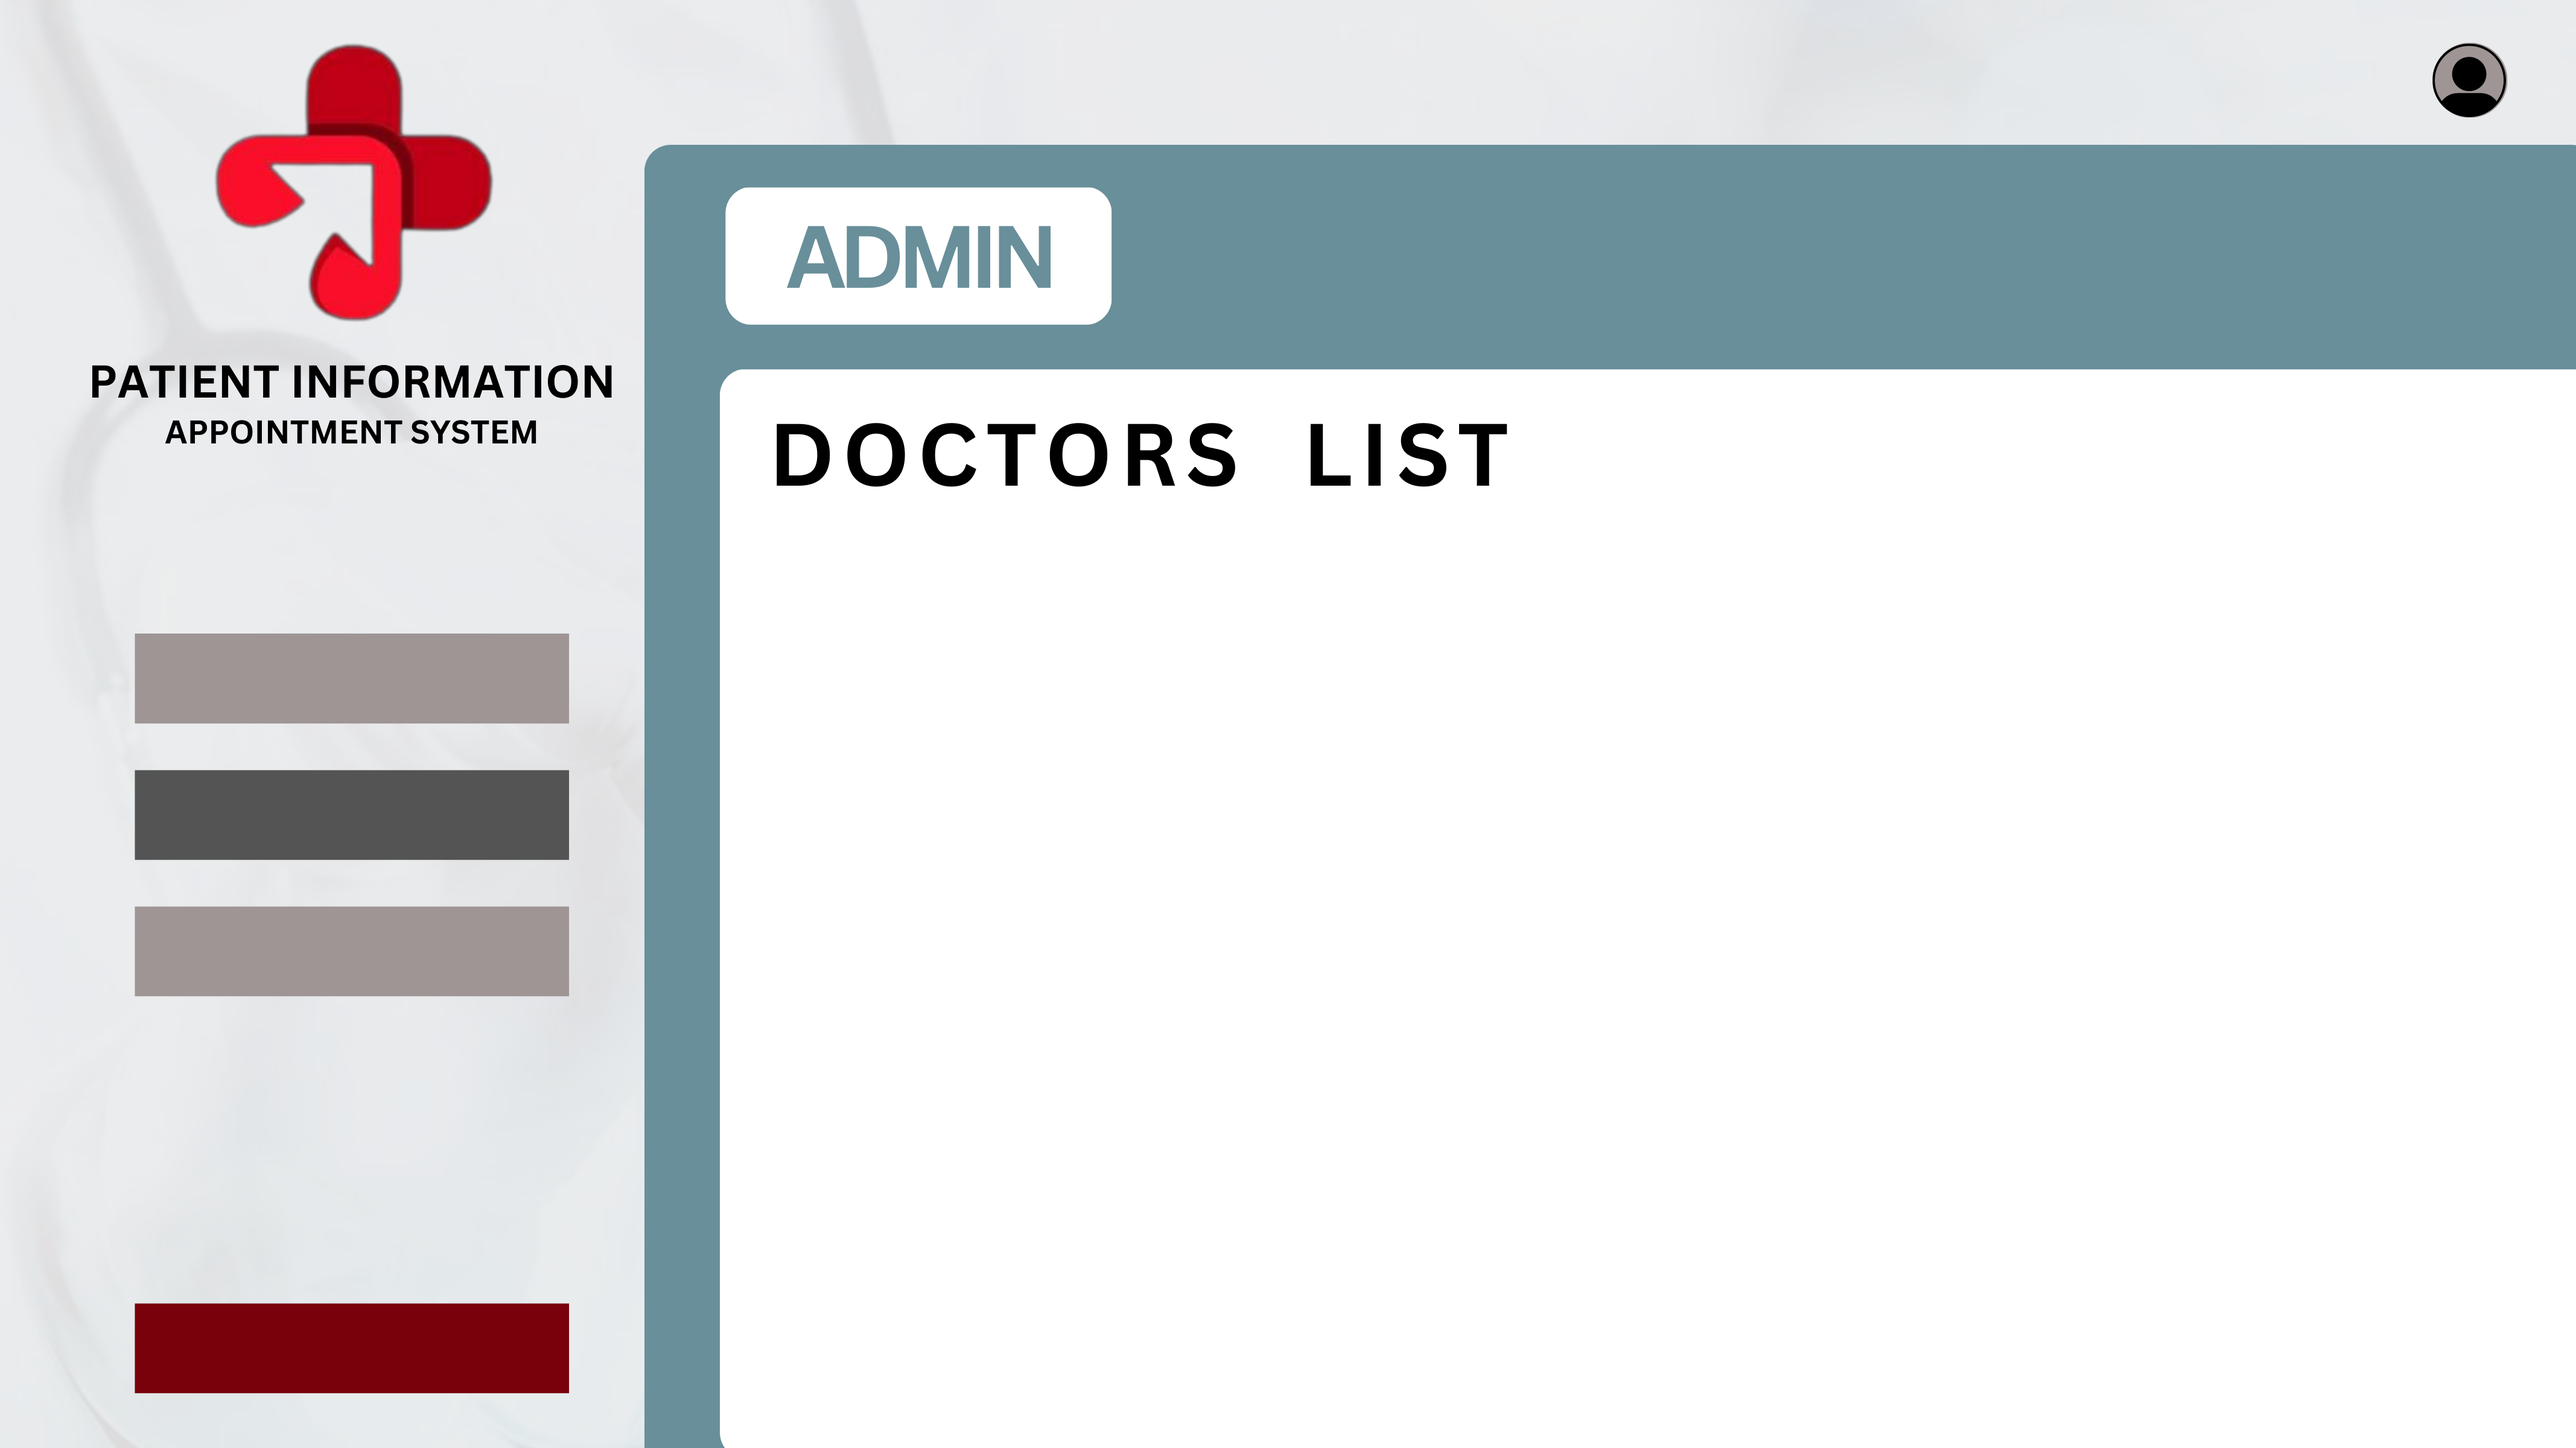
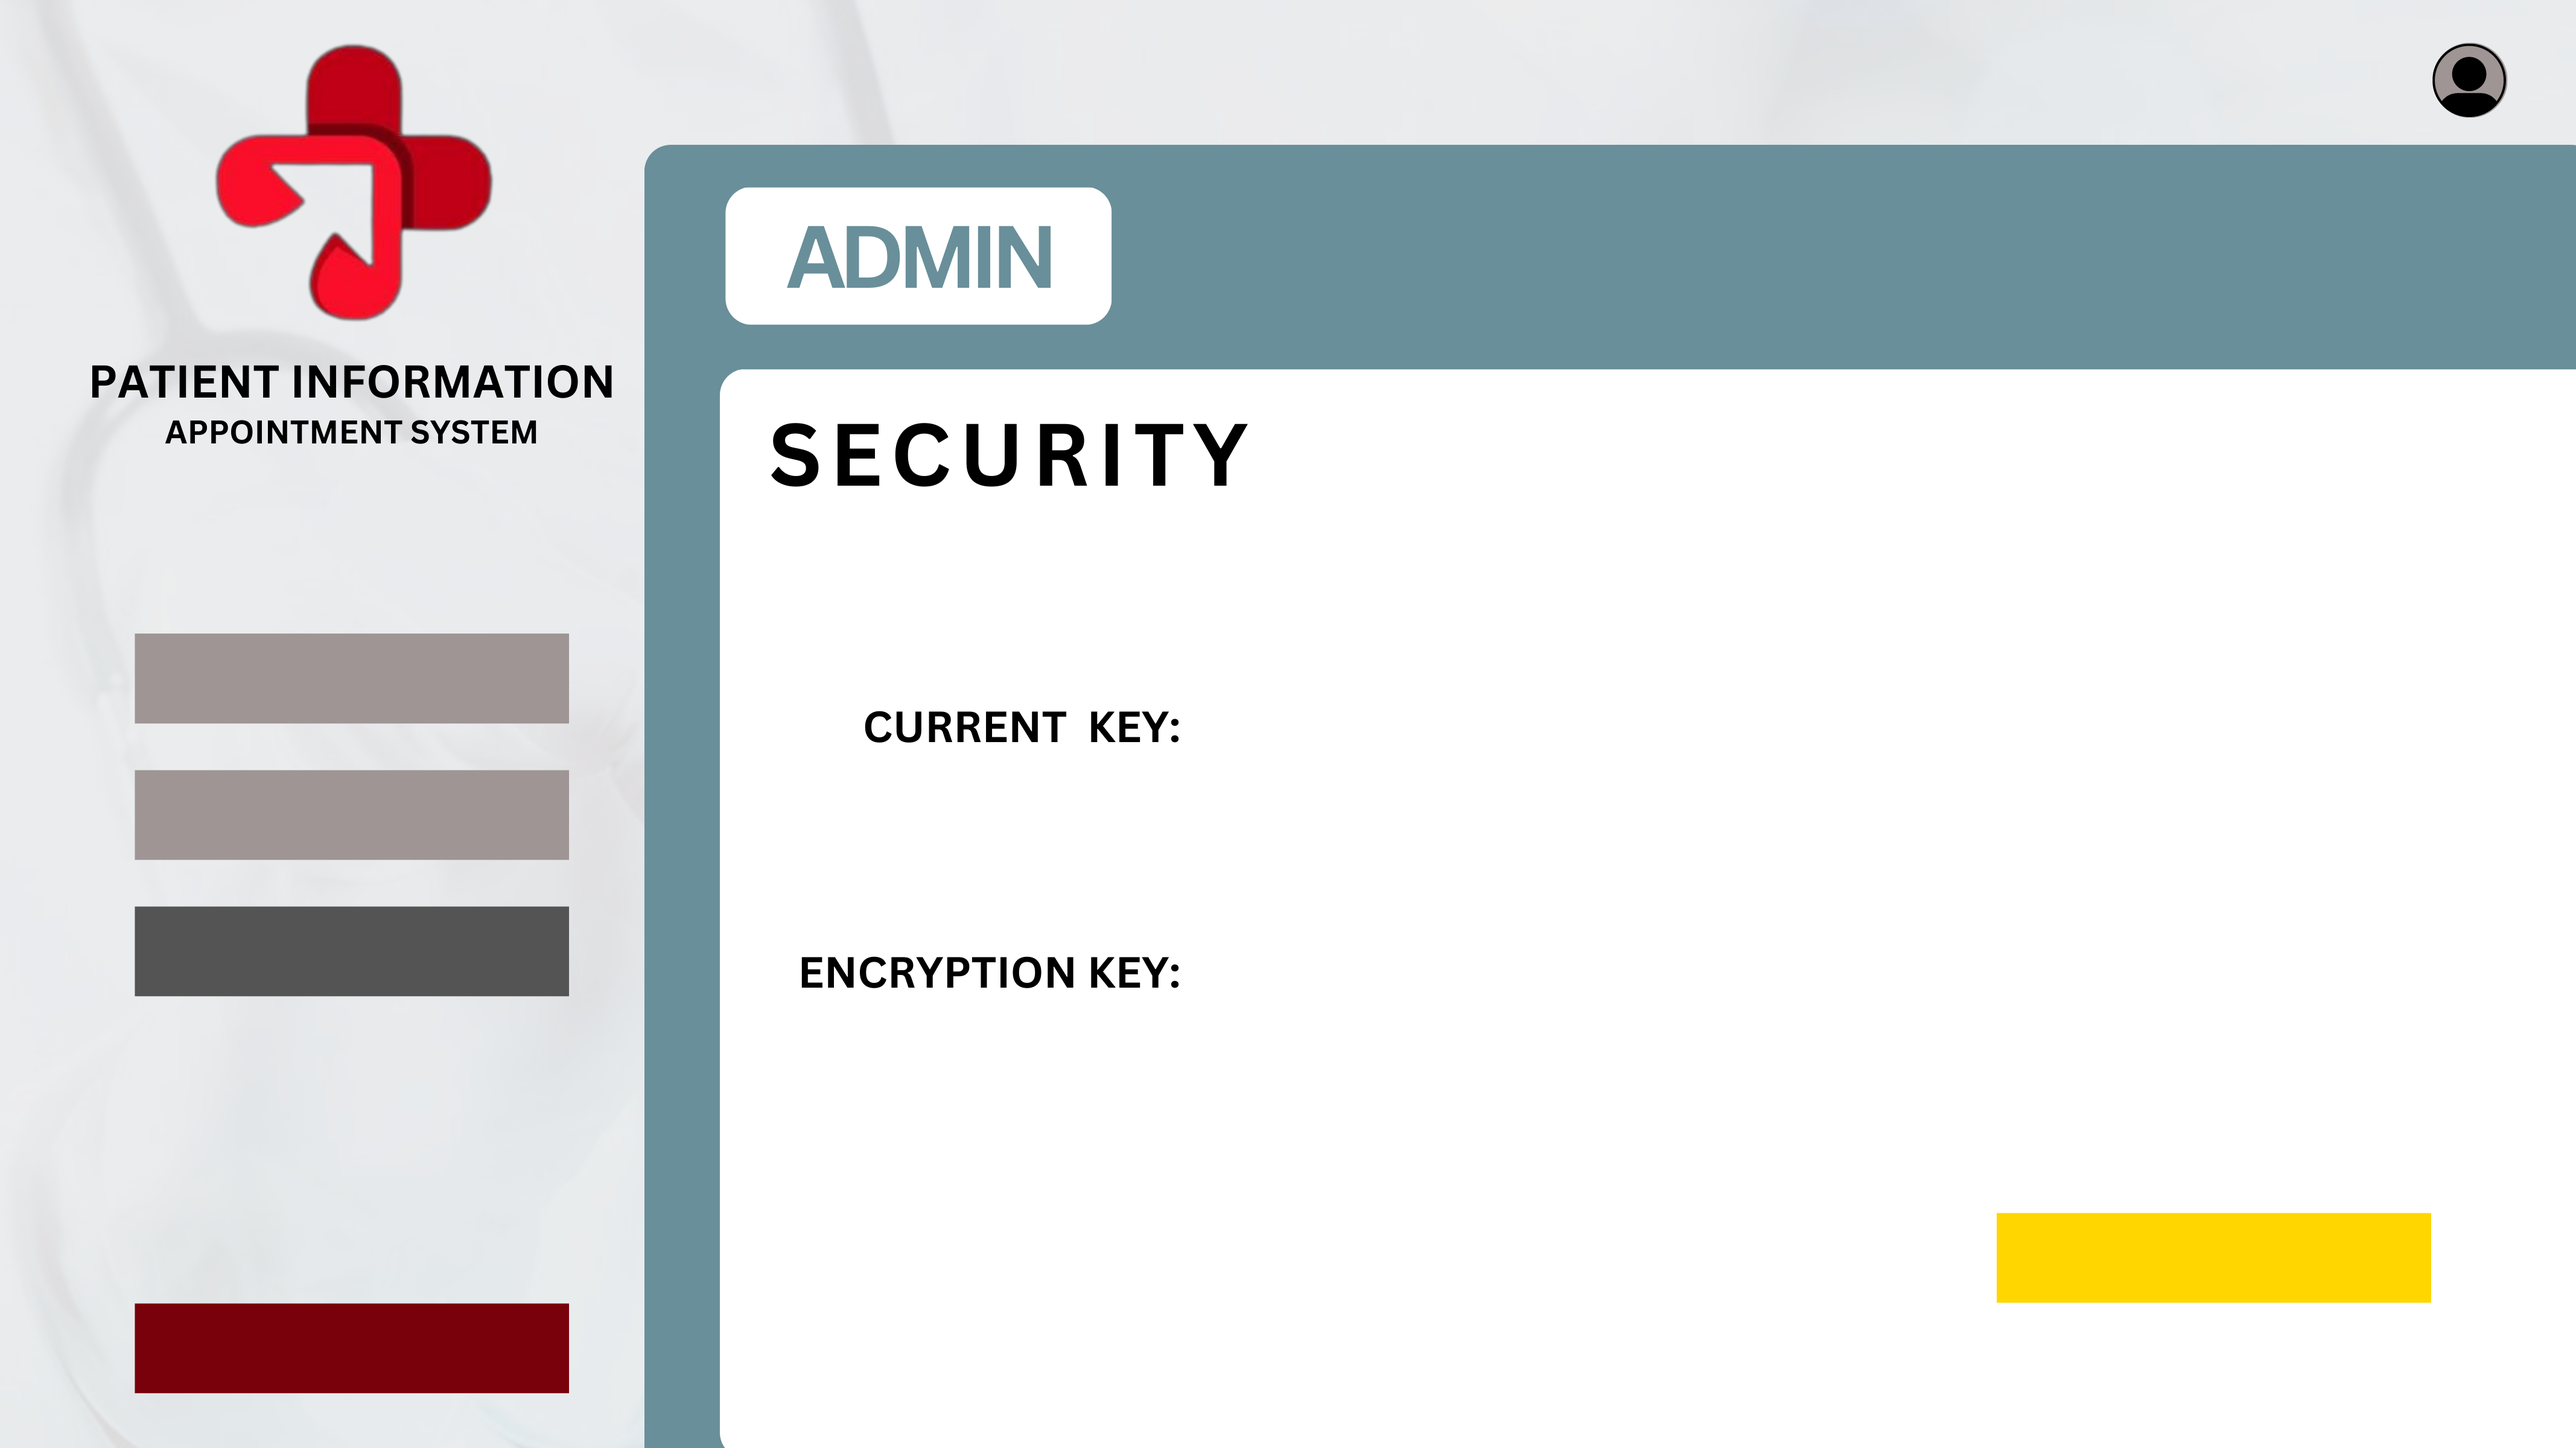
UI ni Jeanne

diff --git a/Java Version/UISecurity.java b/Java Version/UISecurity.java
@@ -3,16 +3,16 @@ import java.awt.*;
 import java.awt.event.ActionEvent;
 import java.awt.event.ActionListener;
 
-public class UIAdminPage extends JFrame implements ActionListener {
+public class UISecurity extends JFrame implements ActionListener {
     public static void main(String[] args) {
-        new UIAdminPage();
+        new UISecurity();
     }
 
     // Frame
-    UIAdminPage() {
+    UISecurity() {
 
         ImageIcon icon = new ImageIcon(getClass().getClassLoader().getResource("images/logo.png"));
-        ImageIcon bgImage = new ImageIcon(getClass().getClassLoader().getResource("images/homepage.png"));
+        ImageIcon bgImage = new ImageIcon(getClass().getClassLoader().getResource("images/security.png"));
 
         // Resize Image
         Image tempImage = bgImage.getImage();
@@ -48,14 +48,14 @@ public class UIAdminPage extends JFrame implements ActionListener {
         securityButton.setText("Security");
         securityButton.setFont(new Font("Dialog", Font.BOLD, 18));
         securityButton.setForeground(Color.WHITE);
-        securityButton.setBackground(Color.BLUE);
+        securityButton.setBackground(new Color(0x698f9a));
         securityButton.setOpaque(true);
         securityButton.setFocusable(false);
         securityButton.addActionListener(this);
         securityButton.setBounds(60, 452, 250, 50);
 
         JButton logoutButton = new JButton();
-        logoutButton.setText("Logout");
+        logoutButton.setText("Back");
         logoutButton.setFont(new Font("Dialog", Font.BOLD, 18));
         logoutButton.setForeground(Color.WHITE);
         logoutButton.setBackground(new Color(0xD62839));
@@ -63,6 +63,34 @@ public class UIAdminPage extends JFrame implements ActionListener {
         logoutButton.setFocusable(false);
         logoutButton.addActionListener(this);
         logoutButton.setBounds(60, 655, 250, 50);
+
+        JButton submit = new JButton();
+        submit = new JButton();
+        submit.setText("Submit");
+        submit.setFont(new Font("Dialog", Font.BOLD, 18));
+        submit.setForeground(Color.BLACK);
+        submit.setBackground(new Color(0xFFD600));
+        submit.setOpaque(true);
+        submit.setFocusable(false);
+        submit.addActionListener(this);
+        submit.setBounds(1045, 607, 250, 50);
+        submit.setBorder(BorderFactory.createEmptyBorder());
+
+         // Text Fields
+        JTextField currentKey = new JTextField();
+        currentKey.setBounds(640, 347, 250, 35);
+        currentKey.setFont(new Font("Dialog", Font.PLAIN, 18));
+        currentKey.setForeground(Color.BLACK);
+        currentKey.setBackground(Color.WHITE);
+
+        JTextField enKey = new JTextField();
+        enKey.setBounds(640, 473, 250, 35);
+        enKey.setFont(new Font("Dialog", Font.PLAIN, 18));
+        enKey.setForeground(Color.BLACK);
+        enKey.setBackground(Color.WHITE);
+
+
+        
 
         // JLayered for layers
         JLayeredPane bgImageLayer = new JLayeredPane();
@@ -87,6 +115,12 @@ public class UIAdminPage extends JFrame implements ActionListener {
         bgImageLayer.add(doctorButton, JLayeredPane.PALETTE_LAYER);
         bgImageLayer.add(securityButton, JLayeredPane.PALETTE_LAYER);
         bgImageLayer.add(logoutButton, JLayeredPane.PALETTE_LAYER);
+        bgImageLayer.add(currentKey, JLayeredPane.PALETTE_LAYER);
+        bgImageLayer.add(enKey, JLayeredPane.PALETTE_LAYER);
+        bgImageLayer.add(submit, JLayeredPane.PALETTE_LAYER);
+
+
+
     }
 
     private static void centerFrameOnScreen(JFrame frame) {

diff --git a/Java Version/UIPatientList.java b/Java Version/UIPatientList.java
@@ -3,16 +3,16 @@ import java.awt.*;
 import java.awt.event.ActionEvent;
 import java.awt.event.ActionListener;
 
-public class UIAdminPage extends JFrame implements ActionListener {
+public class UIPatientList extends JFrame implements ActionListener {
     public static void main(String[] args) {
-        new UIAdminPage();
+        new UIPatientList();
     }
 
     // Frame
-    UIAdminPage() {
+    UIPatientList() {
 
         ImageIcon icon = new ImageIcon(getClass().getClassLoader().getResource("images/logo.png"));
-        ImageIcon bgImage = new ImageIcon(getClass().getClassLoader().getResource("images/homepage.png"));
+        ImageIcon bgImage = new ImageIcon(getClass().getClassLoader().getResource("images/patientlist.png"));
 
         // Resize Image
         Image tempImage = bgImage.getImage();
@@ -28,7 +28,7 @@ public class UIAdminPage extends JFrame implements ActionListener {
         patientButton.setText("Patients");
         patientButton.setFont(new Font("Dialog", Font.BOLD, 18));
         patientButton.setForeground(Color.WHITE);
-        patientButton.setBackground(Color.BLUE);
+        patientButton.setBackground(new Color(0x698f9a));
         patientButton.setOpaque(true);
         patientButton.setFocusable(false);
         patientButton.addActionListener(this);
@@ -55,7 +55,7 @@ public class UIAdminPage extends JFrame implements ActionListener {
         securityButton.setBounds(60, 452, 250, 50);
 
         JButton logoutButton = new JButton();
-        logoutButton.setText("Logout");
+        logoutButton.setText("Back");
         logoutButton.setFont(new Font("Dialog", Font.BOLD, 18));
         logoutButton.setForeground(Color.WHITE);
         logoutButton.setBackground(new Color(0xD62839));

diff --git a/Java Version/UIDoctorList.java b/Java Version/UIDoctorList.java
@@ -3,16 +3,16 @@ import java.awt.*;
 import java.awt.event.ActionEvent;
 import java.awt.event.ActionListener;
 
-public class UIAdminPage extends JFrame implements ActionListener {
+public class UIDoctorList extends JFrame implements ActionListener {
     public static void main(String[] args) {
-        new UIAdminPage();
+        new UIDoctorList();
     }
 
     // Frame
-    UIAdminPage() {
+    UIDoctorList() {
 
         ImageIcon icon = new ImageIcon(getClass().getClassLoader().getResource("images/logo.png"));
-        ImageIcon bgImage = new ImageIcon(getClass().getClassLoader().getResource("images/homepage.png"));
+        ImageIcon bgImage = new ImageIcon(getClass().getClassLoader().getResource("images/DoctorList1.png"));
 
         // Resize Image
         Image tempImage = bgImage.getImage();
@@ -38,7 +38,7 @@ public class UIAdminPage extends JFrame implements ActionListener {
         doctorButton.setText("Doctors");
         doctorButton.setFont(new Font("Dialog", Font.BOLD, 18));
         doctorButton.setForeground(Color.WHITE);
-        doctorButton.setBackground(Color.BLUE);
+        doctorButton.setBackground(new Color(0x698f9a));
         doctorButton.setOpaque(true);
         doctorButton.setFocusable(false);
         doctorButton.addActionListener(this);
@@ -55,7 +55,7 @@ public class UIAdminPage extends JFrame implements ActionListener {
         securityButton.setBounds(60, 452, 250, 50);
 
         JButton logoutButton = new JButton();
-        logoutButton.setText("Logout");
+        logoutButton.setText("Back");
         logoutButton.setFont(new Font("Dialog", Font.BOLD, 18));
         logoutButton.setForeground(Color.WHITE);
         logoutButton.setBackground(new Color(0xD62839));
